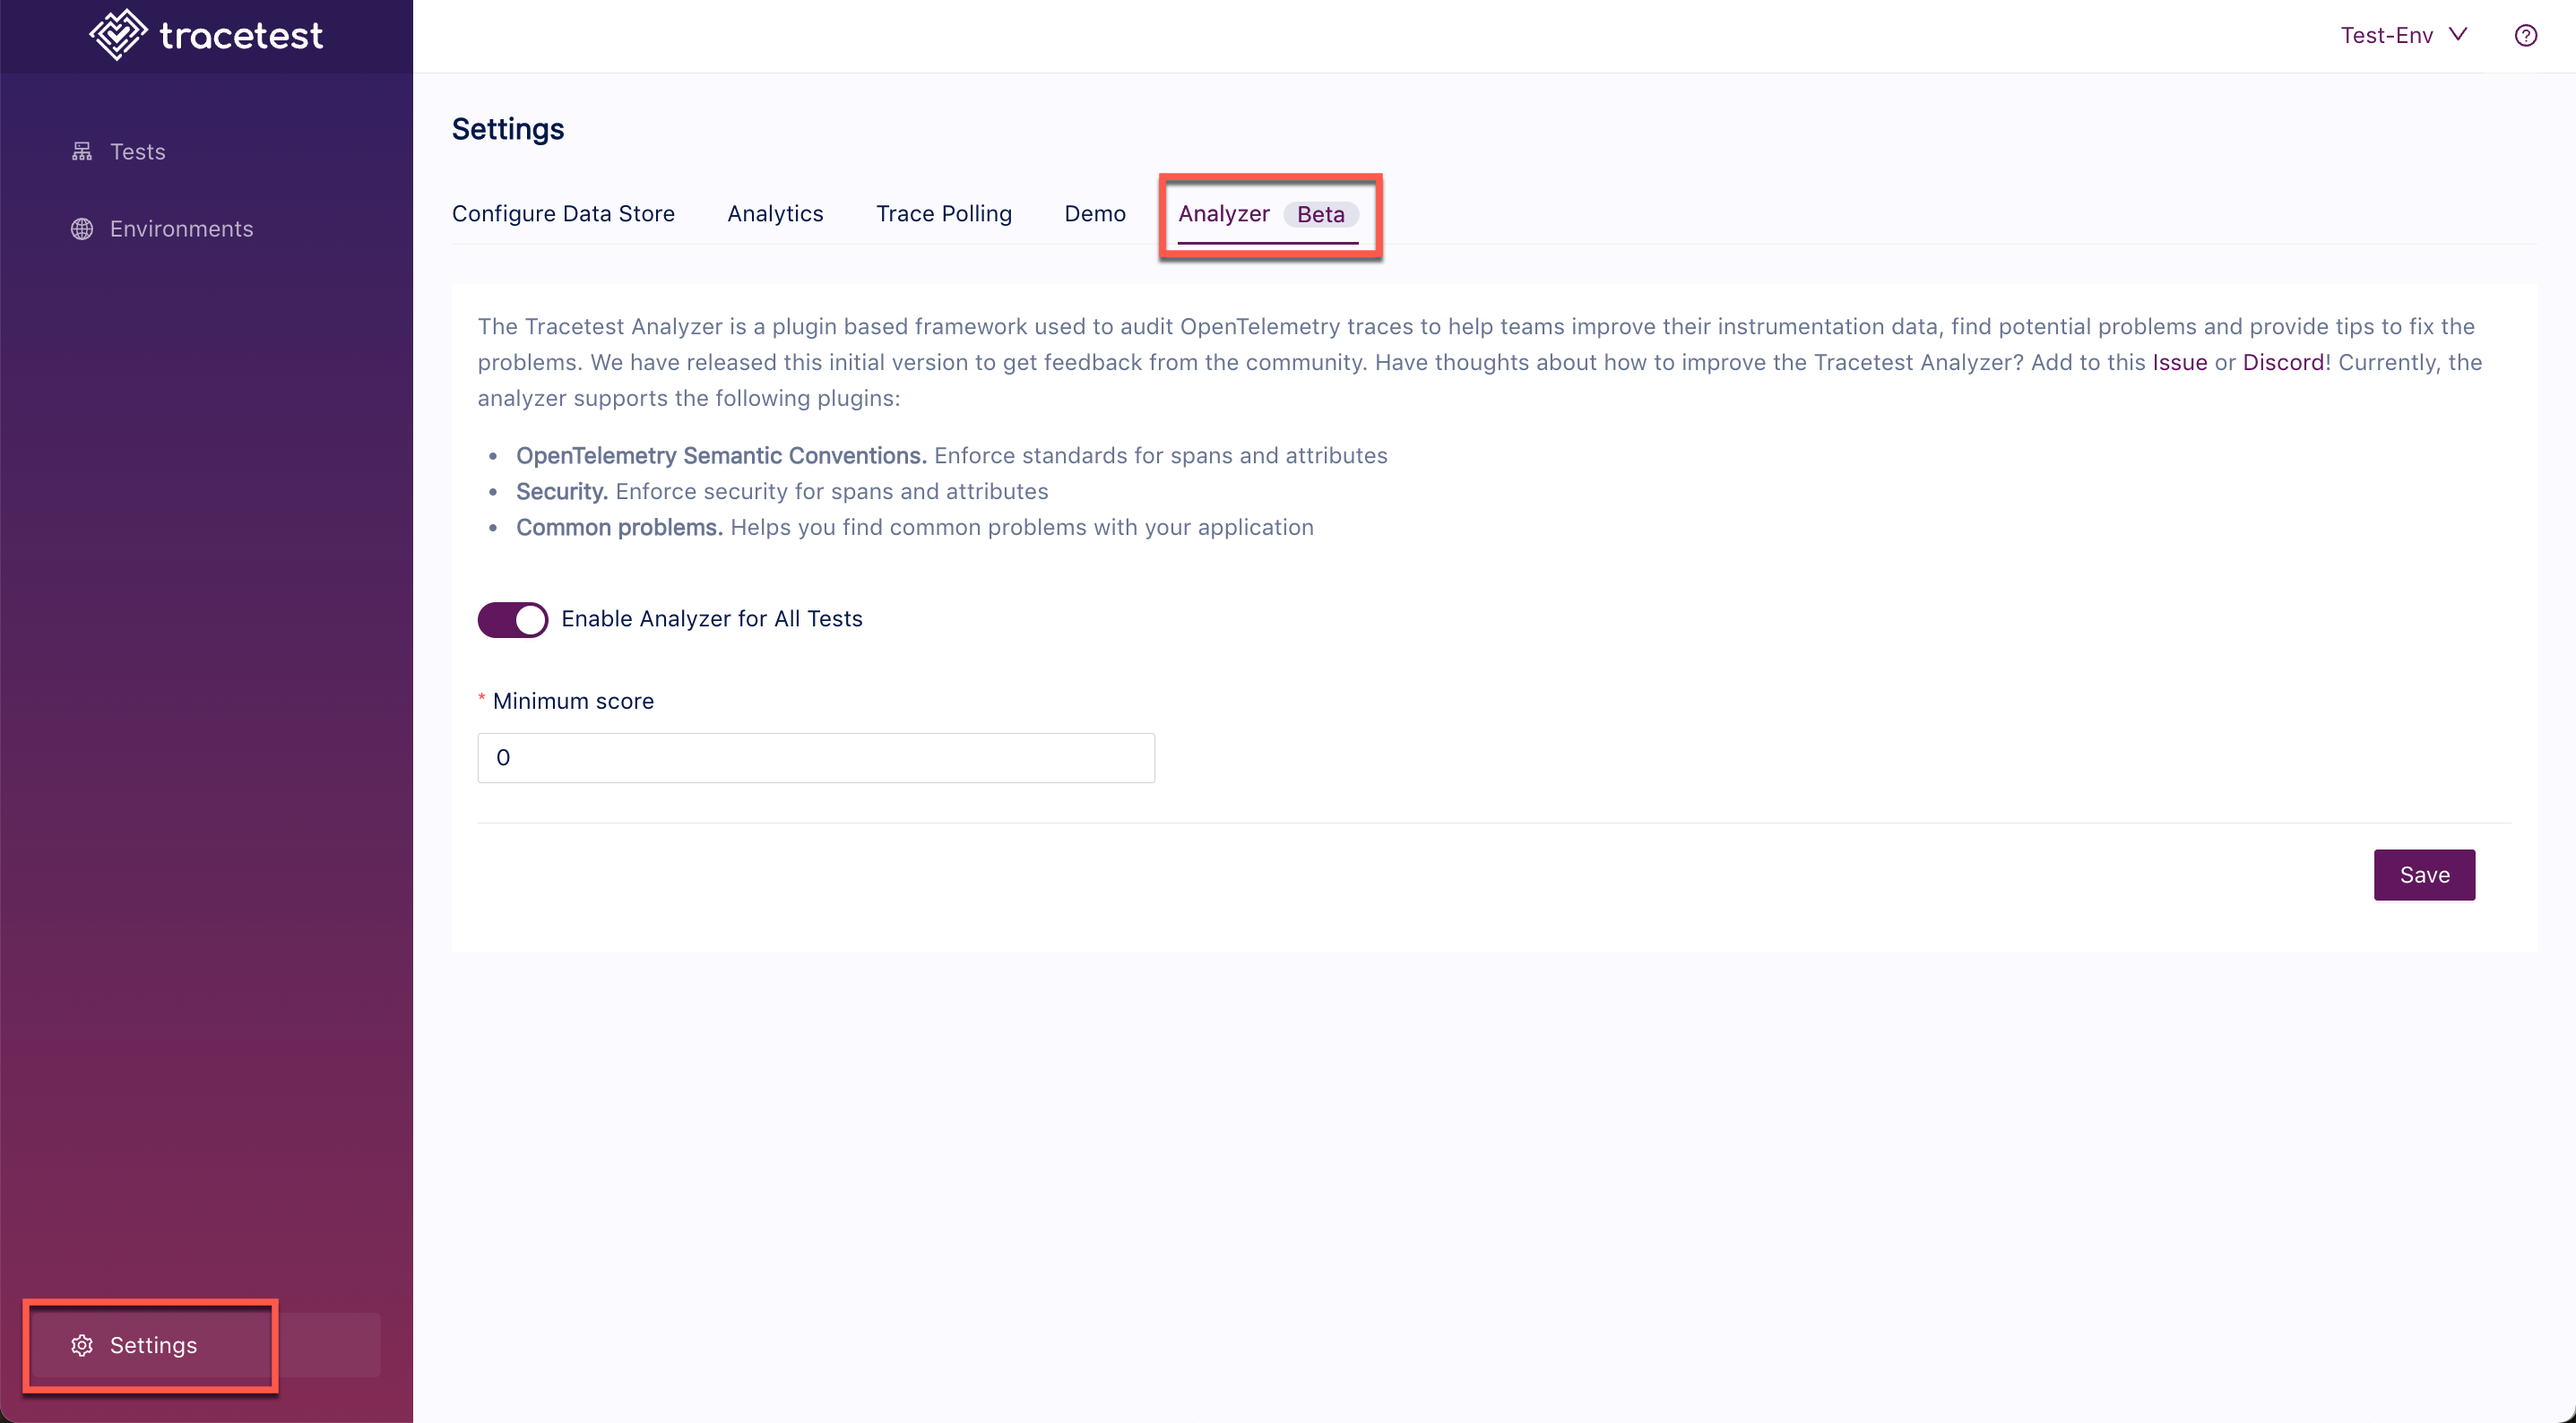
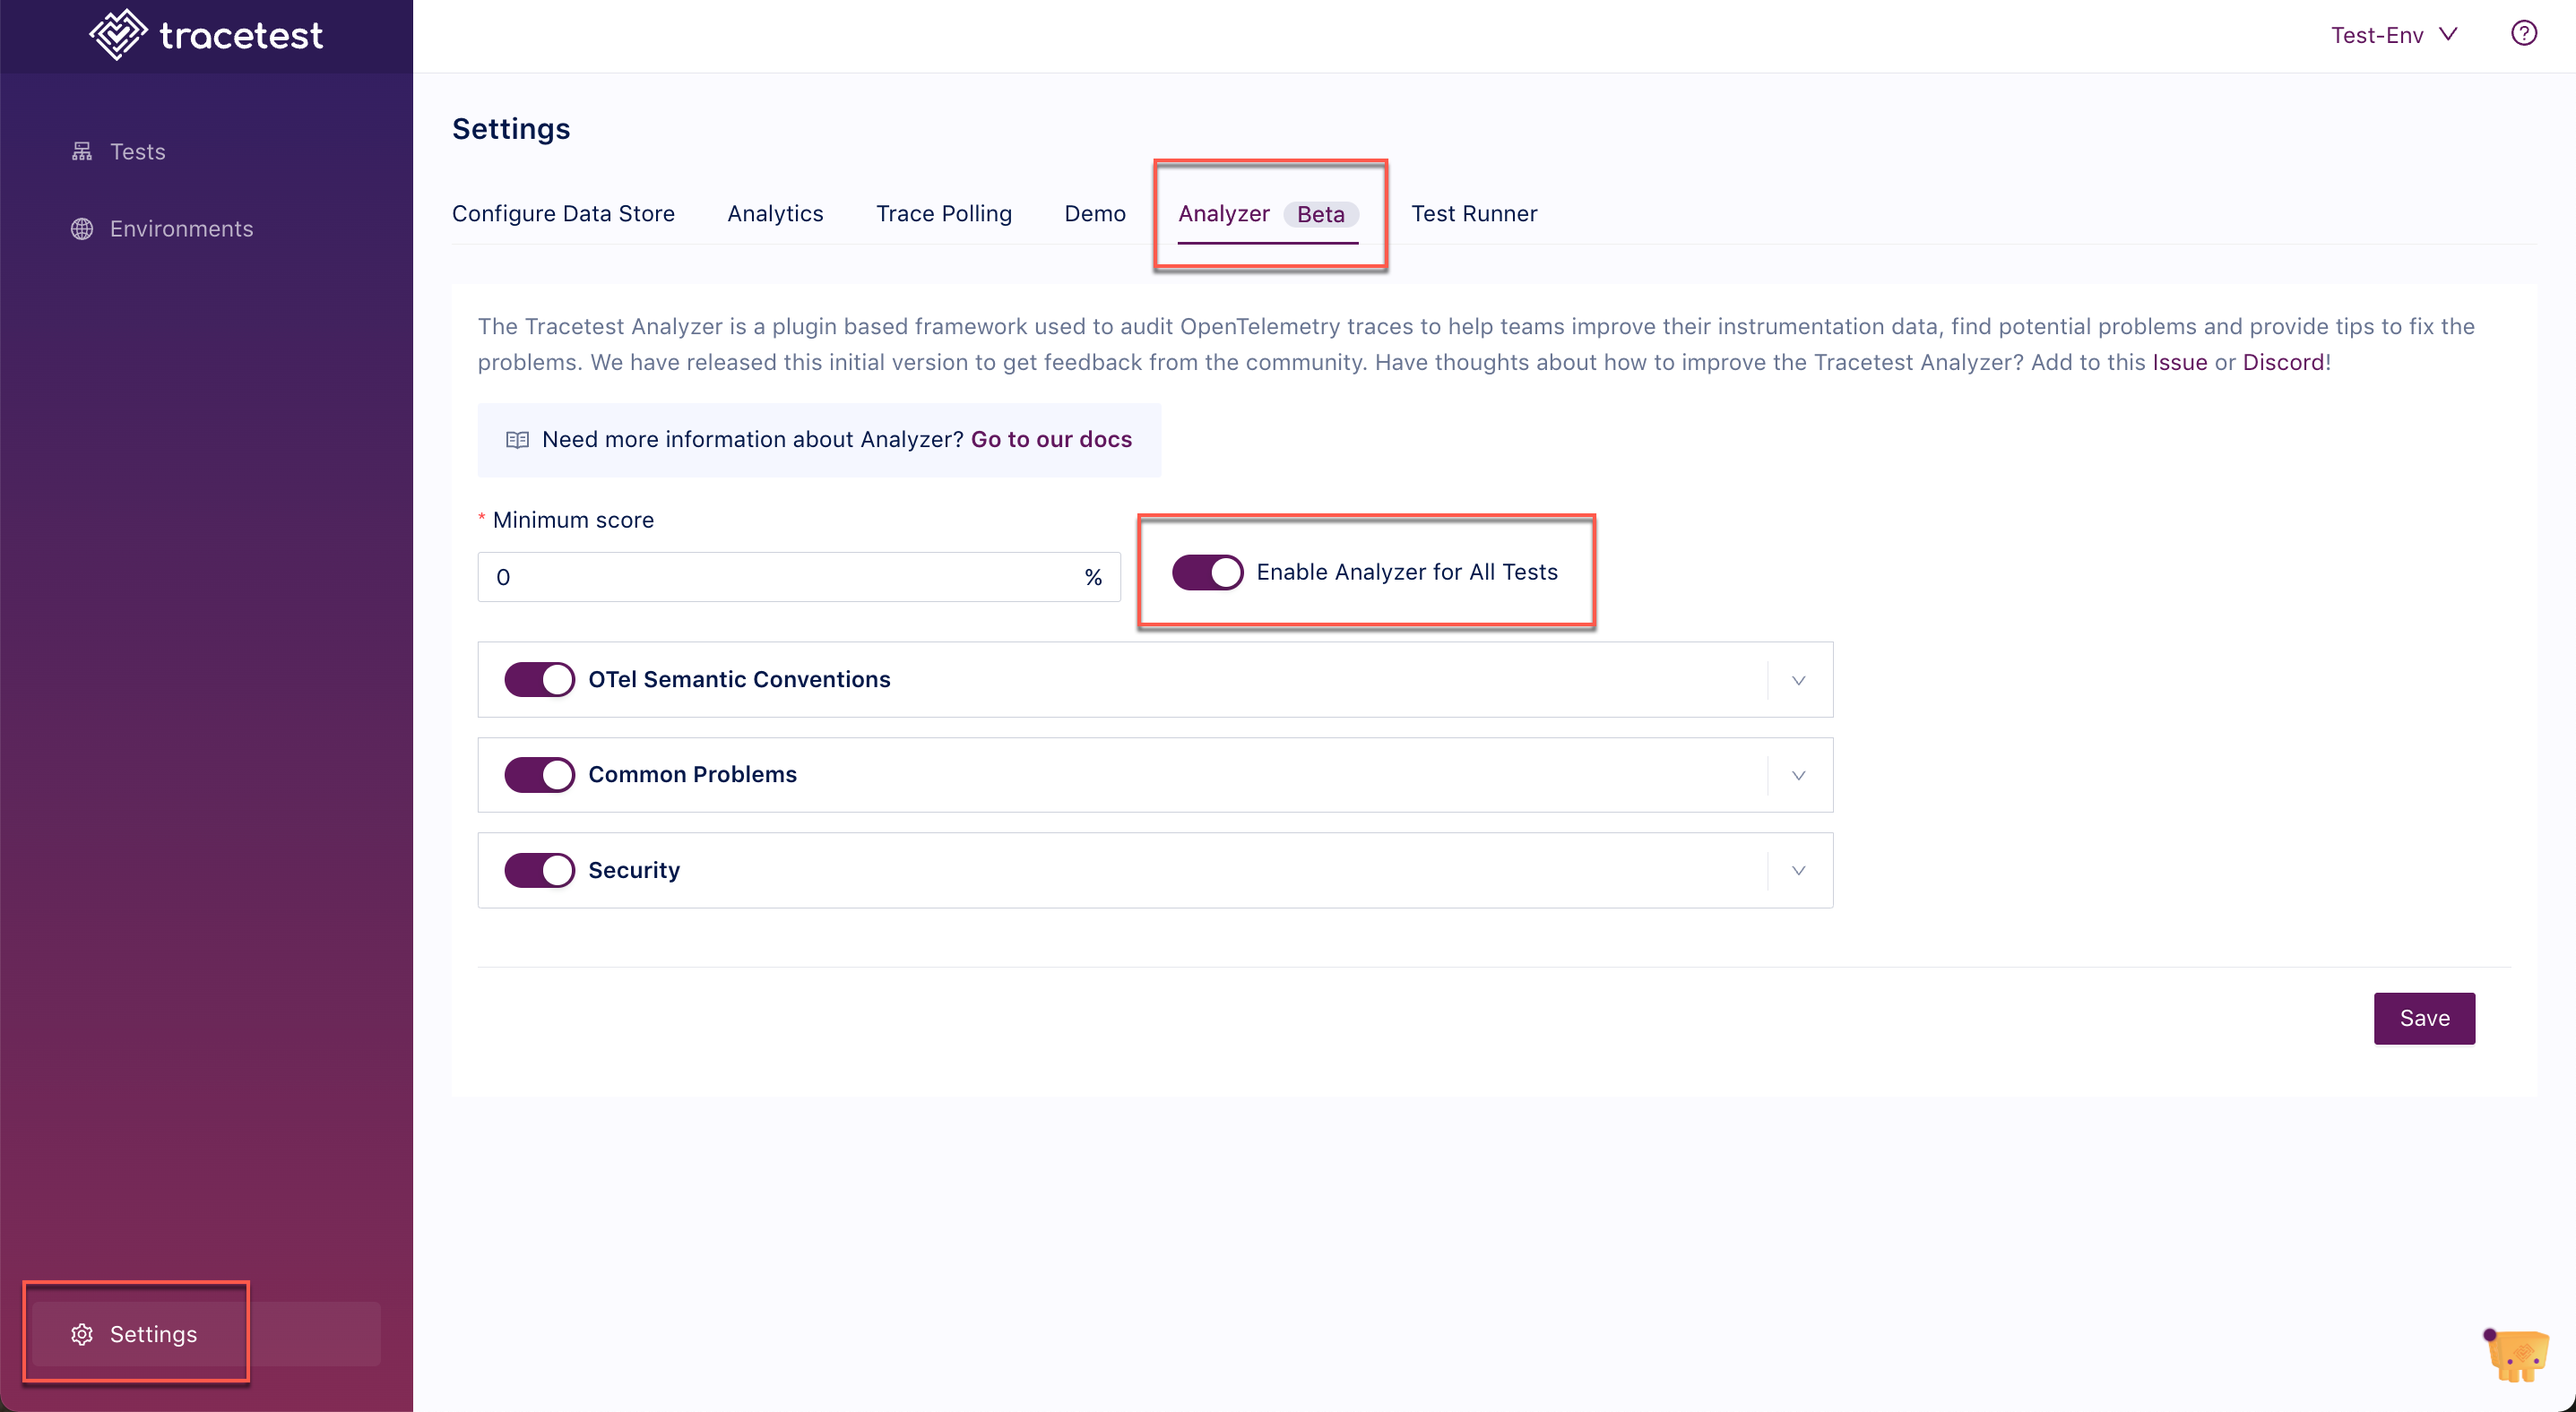
Docs: New Version Updates (#3023)
* New Version Updates

Change "Environment" to "Variable Set".
Update trace analyzer docs to include new config. Issue #2990
Update webui/transactions page to include new automate tab. Issue #2992

* Update docs/docs/live-examples/opentelemetry-store/use-cases/user-purchasing-products.md

* Update docs/docs/live-examples/opentelemetry-store/use-cases/user-purchasing-products.md

* Update docs/docs/web-ui/creating-environments.md

diff --git a/docs/sidebars.js b/docs/sidebars.js
@@ -445,8 +445,8 @@ const sidebars = {
         // },
         {
           type: "doc",
-          id: "concepts/environments",
-          label: "Environments",
+          id: "concepts/variable-sets",
+          label: "Variable Sets",
         },
         {
           type: "doc",

diff --git a/docs/docs/concepts/variable-sets.md b/docs/docs/concepts/variable-sets.md
@@ -1,0 +1,66 @@
+# Variable Sets
+
+A common use case for tests is to assert the same behavior across multiple environments (dev, staging, and production, for example). To make sure all of these environments will have the same behavior, it is important that the tests executed against those environments test the same aspects. To reduce the risks of diverging tests, Tracetest allows you to organize different environments configurations using global objects called **Variable Sets**.
+
+## How Variable Sets Work
+
+Variable sets are objects containing variables that can be referenced by tests. You can use a single test and provide the information on which environment object will be used to run the test. To illustrate this, consider an app that is deployed in three stages: `dev`, `staging`, and `production`. We can execute the same test in all those environments, however, both `URL` and `credentials` change from environment to environment. To run the same test against the three deployments of the app, you can create three variable sets:
+
+```yaml
+# dev.env
+type: Environment
+spec:
+  name: dev.env
+  id: dev.env
+  values:
+    - key: URL
+      value: https://app-dev.com
+    - key: API_TOKEN
+      value: dev-key
+```
+
+```yaml
+# staging.env
+type: Environment
+spec:
+  name: staging.env
+  id: staging.env
+  values:
+    - key: URL
+      value: https://app-staging.com
+    - key: API_TOKEN
+      value: staging-key
+```
+
+```yaml
+# production.env
+type: Environment
+spec:
+  name: production.env
+  id: production.env
+  values:
+    - key: URL
+      value: https://app-prod.com
+    - key: API_TOKEN
+      value: prod-key
+```
+
+Now consider the following test:
+
+```yaml
+type: Test
+specs:
+  name: Test user creation
+  trigger:
+    type: http
+    httpRequest:
+        url: "${env:URL}/api/users"
+        method: POST
+        body: '{}'
+        authentication:
+          type: bearer
+          bearer:
+            token: "${env:API_TOKEN}"
+```
+
+Both `env:URL` and `env:API_TOKEN` would be replaced by the variables defined in the chosen environment where the test will run. So, if the chosen environment was `dev.env`, its values would be replaced by `https://app-dev.com` and `dev-key`, respectively.

diff --git a/docs/docs/live-examples/opentelemetry-store/use-cases/user-purchasing-products.md b/docs/docs/live-examples/opentelemetry-store/use-cases/user-purchasing-products.md
@@ -18,9 +18,9 @@ So in this case, we need to trigger four tests in sequence to achieve test the e
 
 ## Building a Transaction for This Scenario
 
-Using Tracetest, we can do that by [creating a test](../../../web-ui/creating-tests.md) for each step and later grouping these tests as [transactions](../../../web-ui/creating-transactions.md) that have an [environment](../../../concepts/environments.md)](../../../concepts/environments.md).
+Using Tracetest, we can do that by [creating a test](../../../web-ui/creating-tests.md) for each step and later grouping these tests as [transactions](../../../web-ui/creating-transactions.md) that have an [variable set](../../../concepts/variable-sets.md)](../../../concepts/variable-sets.md).
  
-We can do that by creating the tests and transactions through the Web UI or using the CLI. In this example, we will use the CLI to create an environment and then create the transaction with all tests needed. The [assertions](../../../concepts/assertions.md) that we will check are the same for every single test.
+We can do that by creating the tests and transactions through the Web UI or using the CLI. In this example, we will use the CLI to create a Variable Set and then create the transaction with all tests needed. The [assertions](../../../concepts/assertions.md) that we will check are the same for every single test.
 
 ### Mapping Environment Variables 
 

diff --git a/docs/docs/web-ui/creating-transactions.md b/docs/docs/web-ui/creating-transactions.md
@@ -22,9 +22,17 @@ Next, select which tests to run in the transaction and click **Create & Run**:
 
 The transaction will start:
 
-![Running Transaction](https://res.cloudinary.com/djwdcmwdz/image/upload/v1685713352/docs/beta.tracetest.io__page_1_2_oqwazx.png)
+![Running Transaction](../img/running-transaction.png)
+    
+ <!---   https://res.cloudinary.com/djwdcmwdz/image/upload/v1685713352/docs/beta.tracetest.io__page_1_2_oqwazx.png) -->
 
-When the transaction is finished, you will get the following results:
+ On the automate tab, you find methods to automate the current transaction, including the YAML test file and the CLI command for Tracetest.
+
+ ![Automate Tab](../img/automate-tab.png)
+
+ With all of the toggles `Off`, each criteria is tested. Toggle individual criteria `On`, to select on certain checks for the selected test.
+
+When the transaction is finished, you will get the following result:
 
 ![Finished Transaction](https://res.cloudinary.com/djwdcmwdz/image/upload/v1685713712/docs/demo.tracetest.io__x0o1gu.png)
 

diff --git a/docs/docs/configuration/tracetest-analyzer.md b/docs/docs/configuration/tracetest-analyzer.md
@@ -44,4 +44,12 @@ In the Tracetest UI, go to **Settings** and the **Analyzer** tab:
 
 ![Analyzer Settings](../img/analyzer-settings.png)
 
-This feature will be available in the CLI very soon. Stay tuned!
+Toggle `Enable Analyzer for All Tests` off to disable the Analyzer.
+
+Here, you can also set the thresholds for `Otel Semantic Conventions`, `Common Problems` and `Security` analyzer settings.
+
+![Analyzer Settings 2](../img/analyzer-settings-2.png)
+
+## Tracetest Analyzer in the CLI
+
+You can use Tracetest Analyzer in the CLI to analyze per individual test. Visit the [Creating Transactions](/docs/docs/web-ui/creating-transactions.md) page for details.

diff --git a/docs/docs/cli/creating-test-outputs.md b/docs/docs/cli/creating-test-outputs.md
@@ -1,6 +1,6 @@
 # Defining Test Outputs in Text Files
 
-Outputs are really useful when running [Transactions](../concepts/transactions). They allow for exporting values from a test so they become available in the [Environment Variables](../concepts/environments.md) of the current transaction.
+Outputs are really useful when running [Transactions](../concepts/transactions). They allow for exporting values from a test so they become available in the [Environment Variables](../concepts/variable-sets.md) of the current transaction.
 
 ## Outputs are Expression Results
 

diff --git a/docs/docs/web-ui/creating-environments.md b/docs/docs/web-ui/creating-environments.md
@@ -3,7 +3,7 @@
 This page showcases how to create and edit environments in the Web UI.
 
 :::tip
-[To read more about environments check out environment concepts.](../concepts/environments.md)
+[To read more about variable sets check out the variable sets concepts guide.](../concepts/variable-sets.md)
 :::
 
 ![](https://res.cloudinary.com/djwdcmwdz/image/upload/v1685967319/docs/demo.tracetest.io_transaction_QZ3ejgl4R_run_2_oproo4.png)

diff --git a/docs/docs/cli/creating-environments.md b/docs/docs/cli/creating-environments.md
@@ -3,7 +3,7 @@
 This page showcases how to create and edit environments with the CLI.
 
 :::tip
-[To read more about environments check out environment concepts.](../concepts/environments.md)
+[To read more about environments check out environment concepts.](../concepts/variable-sets.md)
 :::
 
 Just like Data Stores, you can also manage your environments using the CLI and definition files.
